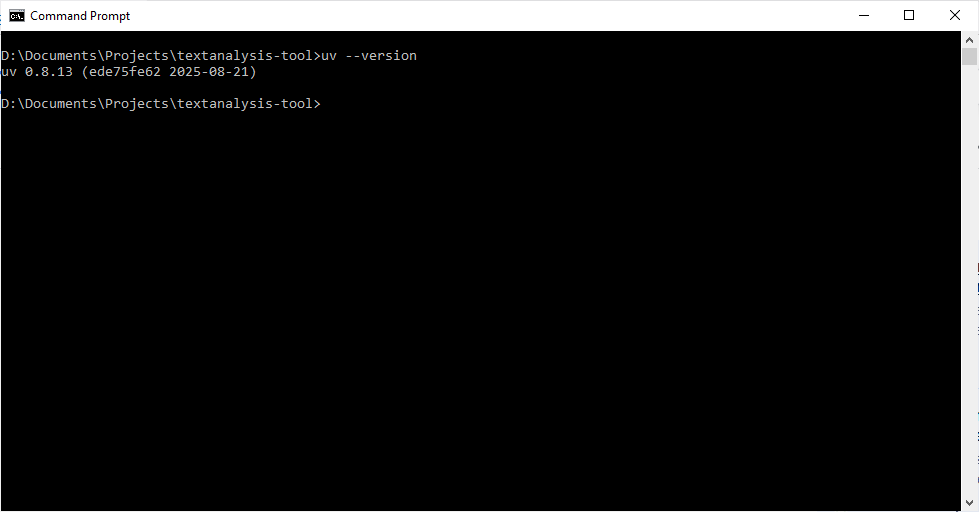
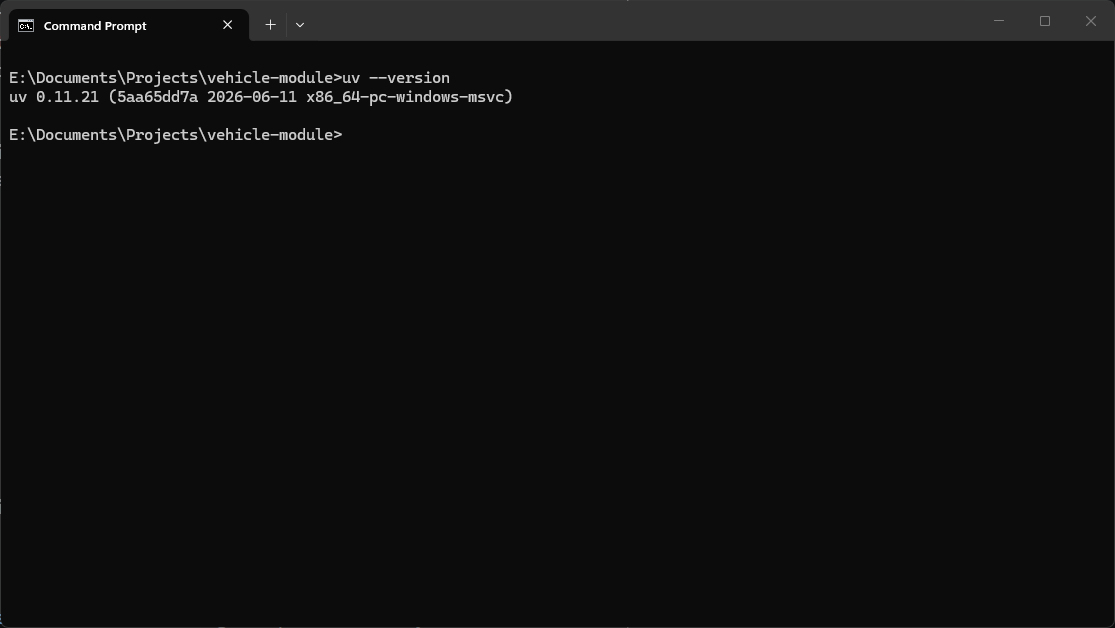
updates

Changed region(s): [[0.0, 0.0, 1.0, 1.0], [0.0, 0.9688, 0.0306, 1.0]]

diff --git a/episodes/01-virtual-environments.md b/episodes/01-virtual-environments.md
@@ -82,6 +82,17 @@ have UV installed and working by typing `uv --version`. You should see something
 ![Checking that UV is installed](./fig/01-virtual-environments/uv_version.PNG){alt='Checking that
 uv is installed by running "uv --version"'}
 
+::: callout
+
+If you are using an older version of `uv`, it should still work for the purposes of this workshop,
+but some of the outputs might look different. Updating `uv` to the latest version will depend on
+how you installed it.
+
+- If you installed `uv` with `pip`, you can update it with `python -m pip install --upgrade uv`.
+- If you installed `uv` from binaries, you can use `uv self update`.
+
+:::
+
 We can start off with a new project with UV by running the command `uv init`. This will
 automatically create a couple files for us:
 
@@ -102,7 +113,7 @@ about our project in a fairly readable format:
 
 ```toml
 [project]
-name = "textanalysis-tool-{my-name}"
+name = "vehicle-module-{my-name}"
 version = "0.1.0"
 description = "Add your description here"
 readme = "README.md"
@@ -144,11 +155,25 @@ import sys
 sys.executable
 ```
 
+You should see something like this:
+![](./fig/01-virtual-environments/python_executable_before_venv.PNG){alt='The output of the "sys.executable" command showing the location of the python executable before activating the virtual environment'}
+
 You can type `exit` to leave the python interpreter
 
-You should see the path to the location of the python executable on your machine. Now let's activate
-our environment. The exact command will depend on your operating system, but if you look above the
-python code to the output of the `uv venv` command, you should see the correct command.
+The value printed after `sys.executable` will be the path to the python executable that is started
+when you run the python interpreter from your terminal. Now let's activate our environment. The
+exact command will depend on your operating system, but if you look above the python code to the
+output of the `uv venv` command, you should see the correct command.
+
+::: tab
+
+### Windows
+
+```bash
+.venv/bin/activate
+```
+
+### Linux
 
 ```bash
 source .venv/bin/activate
@@ -158,7 +183,7 @@ If this command works properly, you should see that before your prompt is now so
 parenthesis:
 
 ```
-(textanalysis-tool) D:\Documents\Projects\textanalysis-tool>
+(vehicle-module) E:\Documents\Projects\vehicle-module>
 ```
 
 Let's start up the python interpreter again and check the location of our executable:
@@ -172,12 +197,12 @@ What you should now see is that the executable is located in the .venv/Scripts d
 project:
 
 ```
-(textanalysis-tool) D:\Documents\Projects\textanalysis-tool>python
-Python 3.13.7 (tags/v3.13.7:bcee1c3, Aug 14 2025, 14:15:11) [MSC v.1944 64 bit (AMD64)] on win32
+(vehicle-module) E:\Documents\Projects\vehicle-module>python
+Python 3.13.5 (main, Jun 12 2025, 12:42:35) [MSC v.1943 64 bit (AMD64)] on win32
 Type "help", "copyright", "credits" or "license" for more information.
 >>> import sys
 >>> sys.executable
-'D:\\Documents\\Projects\\textanalysis-tool\\.venv\\Scripts\\python.exe'
+'E:\\Documents\\Projects\\vehicle-module\\.venv\\Scripts\\python.exe'
 ```
 
 Exit out of the interpreter and deactivate the virtual environment with `deactivate`.
@@ -215,7 +240,7 @@ here: [Python.gitignore from GitHub](https://github.com/github/gitignore/blob/ma
 :::
 
 Next, let's set up a repository on GitHub to store our code. We'll make an entirely blank
-repository, with the same name as our project: "textanalysis-tool".
+repository, with the same name as our project: "vehicle-module".
 
 ![Creating a new repository](./fig/01-virtual-environments/new-repo.PNG){alt='The Github interface
 for creating a new repository'}
@@ -228,11 +253,16 @@ machine.
 
 :::
 
-First, we'll initialize a git repository locally, making an initial commit with the files that uv
-generated:
+::: prereq
+
+If you are using an older version of `uv`, the .git folder may not be created as part of the
+`uv init` command. If this is the case, you can create a git repository with the command `git init`.
+
+:::
+
+First, we'll make an initial commit with the files that uv generated:
 
 ```
-git init
 git add .gitignore .python-version README.md main.py pyproject.toml
 git commit -m "Initial commit"
 ```
@@ -240,7 +270,7 @@ git commit -m "Initial commit"
 Then we'll follow the directions for creating a new repository:
 
 ```
-git remote add origin https://github.com/{username}/textanalysis-tool.git
+git remote add origin https://github.com/{username}/vehicle-module.git
 git branch -M main
 git push -u origin main
 ```
@@ -262,20 +292,20 @@ And with that, we're ready to start writing our tool!
 
 ## Challenge 1: Adding a Package Dependency
 
-Now that we have our project set up, let's add a project dependency. Later on in the workshop, we'll
-be parsing HTML documents, so let's add the `beautifulsoup4` package to our project.
+Now that we have our project set up, let's add a project dependency. Let's say we needed to pull
+down data from a web API. We could use the built-in `urllib` module, but it can be a bit clunky to
+work with. A popular alternative is the `requests` package, which provides a much nicer interface
+for making HTTP requests. Let's add `requests` to our project with UV.
 
 Try the following command
 
 ```
-uv add beautifulsoup4
+uv add requests
 ```
 
 Take a look at the `pyproject.toml` and `uv.lock` files. What changed? What is the purpose of each
 file?
 
-What is the difference between the command `uv add beautifulsoup4` and
-`uv pip install beautifulsoup4`?
 
 :::::::::::::::: solution
 
@@ -284,13 +314,56 @@ project depends on. The `uv.lock` file is a machine readable file that contains 
 of all packages that were installed, including any dependencies of the packages we explicitly
 installed.
 
-`uv add` will add the package to the `pyproject.toml` file, and install the package into our virtual
-environment. `uv pip install` will install the package into our virtual environment, but will not
-add it to the `pyproject.toml` file.
+```toml
+[project]
+name = "vehicle-module"
+version = "0.1.0"
+description = "Add your description here"
+readme = "README.md"
+requires-python = ">=3.13"
+dependencies = [
+    "requests>=2.34.2",
+]
+```
 
 :::::::::::::::::::::::::
 
 :::::::::::::::::::::::::::::::::::::::::::::::
+
+::::::::::::::::::::::::::::::::::::: challenge
+
+## Challenge 2: Adding a Package Dependency to a Group
+
+Later on in this workshop, we will be writing some tests for our code using the `pytest` package.
+
+Try the following command:
+
+```
+uv add pytest --group dev
+```
+
+Take a look at the `pyproject.toml` and `uv.lock` files. What changed?
+
+
+:::::::::::::::: solution
+
+Including the `--group dev` flag when we added `pytest` caused it to be added to a new section in
+the `pyproject.toml` file:
+
+```toml
+[dependency-groups]
+dev = [
+    "pytest>=9.1.0",
+]
+```
+
+This is useful if we have packages that are only needed by someone who is developing the project,
+but not a user of the project.
+
+:::::::::::::::::::::::::
+
+:::::::::::::::::::::::::::::::::::::::::::::::
+
 
 ::::::::::::::::::::::::::::::::::::: keypoints
 